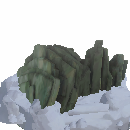
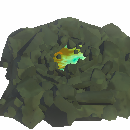
Add shipwrecks.

diff --git a/src/lib/map/geojson-loader.ts b/src/lib/map/geojson-loader.ts
@@ -34,6 +34,7 @@ let makersTreeDepletedIcon: L.Icon;
 let volcanicGeyserIcon: L.Icon;
 let travelerCampIcon: L.Icon;
 let hermitCrabIcon: L.Icon;
+let shipwreckIcon: L.Icon;
 
 export function initIcons(): void {
   caveIcons = Array.from({ length: 10 }, (_, i) => createIcon(`t${i + 1}`));
@@ -50,7 +51,8 @@ export function initIcons(): void {
   makersTreeDepletedIcon = createIcon("makers-tree", [32, 32], { className: "grayscale-icon" });
   volcanicGeyserIcon = createIcon("volcanic-geyser");
   travelerCampIcon = createIcon("traveler-camp");
-  hermitCrabIcon = createIcon("hermit-crab", [25, 25]);
+  hermitCrabIcon = createIcon("hermit-crab");
+  shipwreckIcon = createIcon("shipwreck");
 }
 
 /** Bind a lazy popup — the content function is only called when the popup opens. */
@@ -262,6 +264,7 @@ export async function loadEventsGeoJson(
 export async function loadUnchartedGeoJson(
   geysersLayer: L.LayerGroup,
   hermitCrabDensLayer: L.LayerGroup,
+  shipwrecksLayer: L.LayerGroup,
 ): Promise<void> {
   const file = await fetch(geojsonUrl("uncharted.geojson"));
   const geojsonData = await file.json();
@@ -276,6 +279,9 @@ export async function loadUnchartedGeoJson(
       } else if (iconName === "hermit-crab") {
         targetLayer = hermitCrabDensLayer;
         icon = hermitCrabIcon;
+      } else if (iconName === "shipwreck") {
+        targetLayer = shipwrecksLayer;
+        icon = shipwreckIcon;
       }
 
       const selectionData = {

diff --git a/src/lib/components/map/MapContainer.svelte b/src/lib/components/map/MapContainer.svelte
@@ -88,6 +88,7 @@
   let makersTreeLayer: L.LayerGroup;
   let geysersLayer: L.LayerGroup;
   let hermitCrabDensLayer: L.LayerGroup;
+  let shipwrecksLayer: L.LayerGroup;
   let travelerCampLayer: L.LayerGroup;
   let waypointsLayer: L.LayerGroup;
   let roadsLayer: L.LayerGroup;
@@ -266,6 +267,7 @@
     makersTreeLayer = L.layerGroup();
     geysersLayer = L.layerGroup();
     hermitCrabDensLayer = L.layerGroup();
+    shipwrecksLayer = L.layerGroup();
     travelerCampLayer = L.layerGroup();
     waypointsLayer = L.layerGroup();
 
@@ -308,6 +310,7 @@
       "Traveler Camps": travelerCampLayer,
       "Volcanic Geysers": geysersLayer,
       "Hermit Crab Dens": hermitCrabDensLayer,
+      Shipwrecks: shipwrecksLayer,
       Banks: banksLayer,
       Markets: marketsLayer,
       Waystones: waystonesLayer,
@@ -350,6 +353,7 @@
       makersTreeLayer,
       geysersLayer,
       hermitCrabDensLayer,
+      shipwrecksLayer,
       travelerCampLayer,
       templesLayer,
       ruinedLayer,
@@ -532,6 +536,7 @@
     loadUnchartedGeoJson(
       geysersLayer,
       hermitCrabDensLayer,
+      shipwrecksLayer
     );
     loadDungeonsGeoJson(dungeonsLayer);
 

diff --git a/scripts/generate_feature_jsons.ts b/scripts/generate_feature_jsons.ts
@@ -370,7 +370,13 @@ function addFeature(outputs: OutputData, claimState: ClaimState, localState: Cla
                 name: claimName,
                 popupText: claimName,
                 iconName: 'hermit-crab',
-                iconSize: [25, 25]
+            }, localState.location!));
+            break;
+        case 203609893:
+            outputs.uncharted.push(makeFeature({
+                name: claimName,
+                popupText: claimName,
+                iconName: 'shipwreck',
             }, localState.location!));
             break;
         // Temples

diff --git a/src/lib/data/icons-manifest.ts b/src/lib/data/icons-manifest.ts
@@ -56,5 +56,6 @@ export const iconsManifest: Record<string, string> = {
 	'volcanic-geyser': '/images/other/volcanic-geyser.webp',
 	'traveler-camp': '/images/other/traveler-camp.webp',
 	'hermit-crab': '/images/other/hermit-crab.webp',
+	'shipwreck': '/images/other/shipwreck.webp',
 	'vault-event': '/images/other/vault-event.webp'
 };

diff --git a/src/lib/types/layers.ts b/src/lib/types/layers.ts
@@ -60,7 +60,8 @@ export const LAYER_GROUPS: Record<string, LayerGroupDef> = {
 		layers: [
 			'Events',
 			'Volcanic Geysers',
-			'Hermit Crab Dens'
+			'Hermit Crab Dens',
+			'Shipwrecks'
 		],
 		defaultCollapsed: true
 	},
